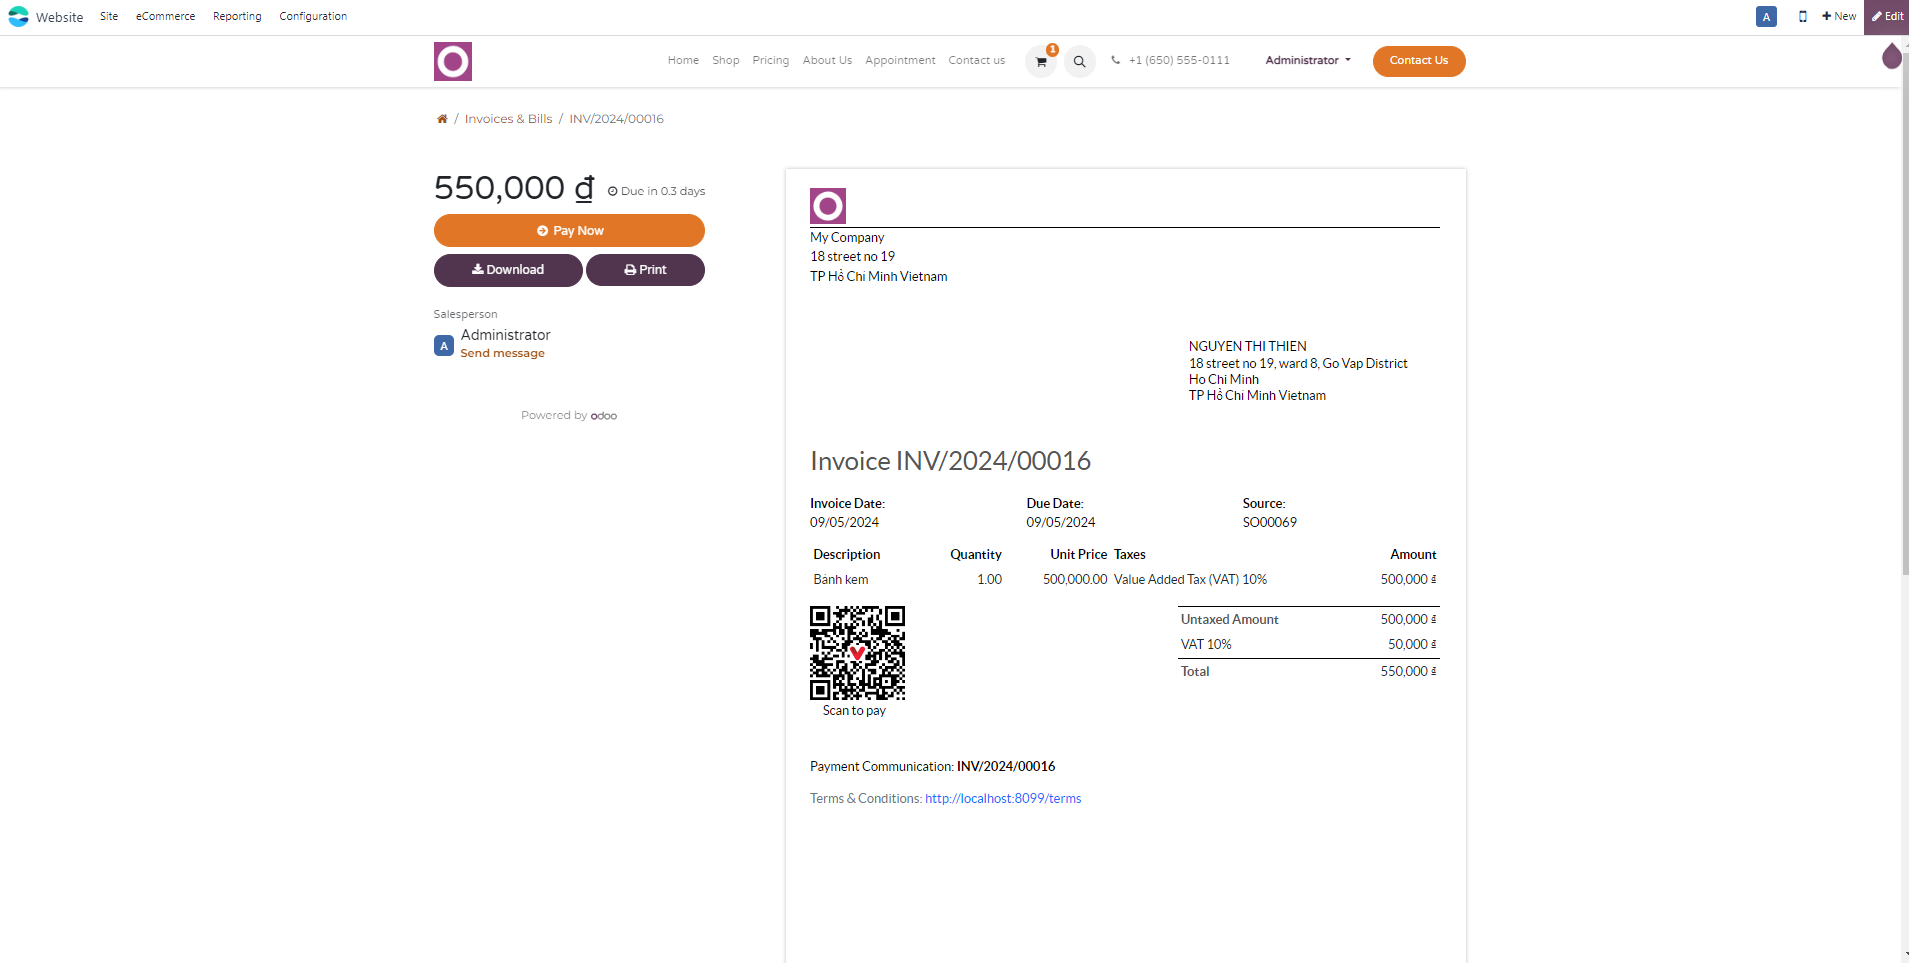
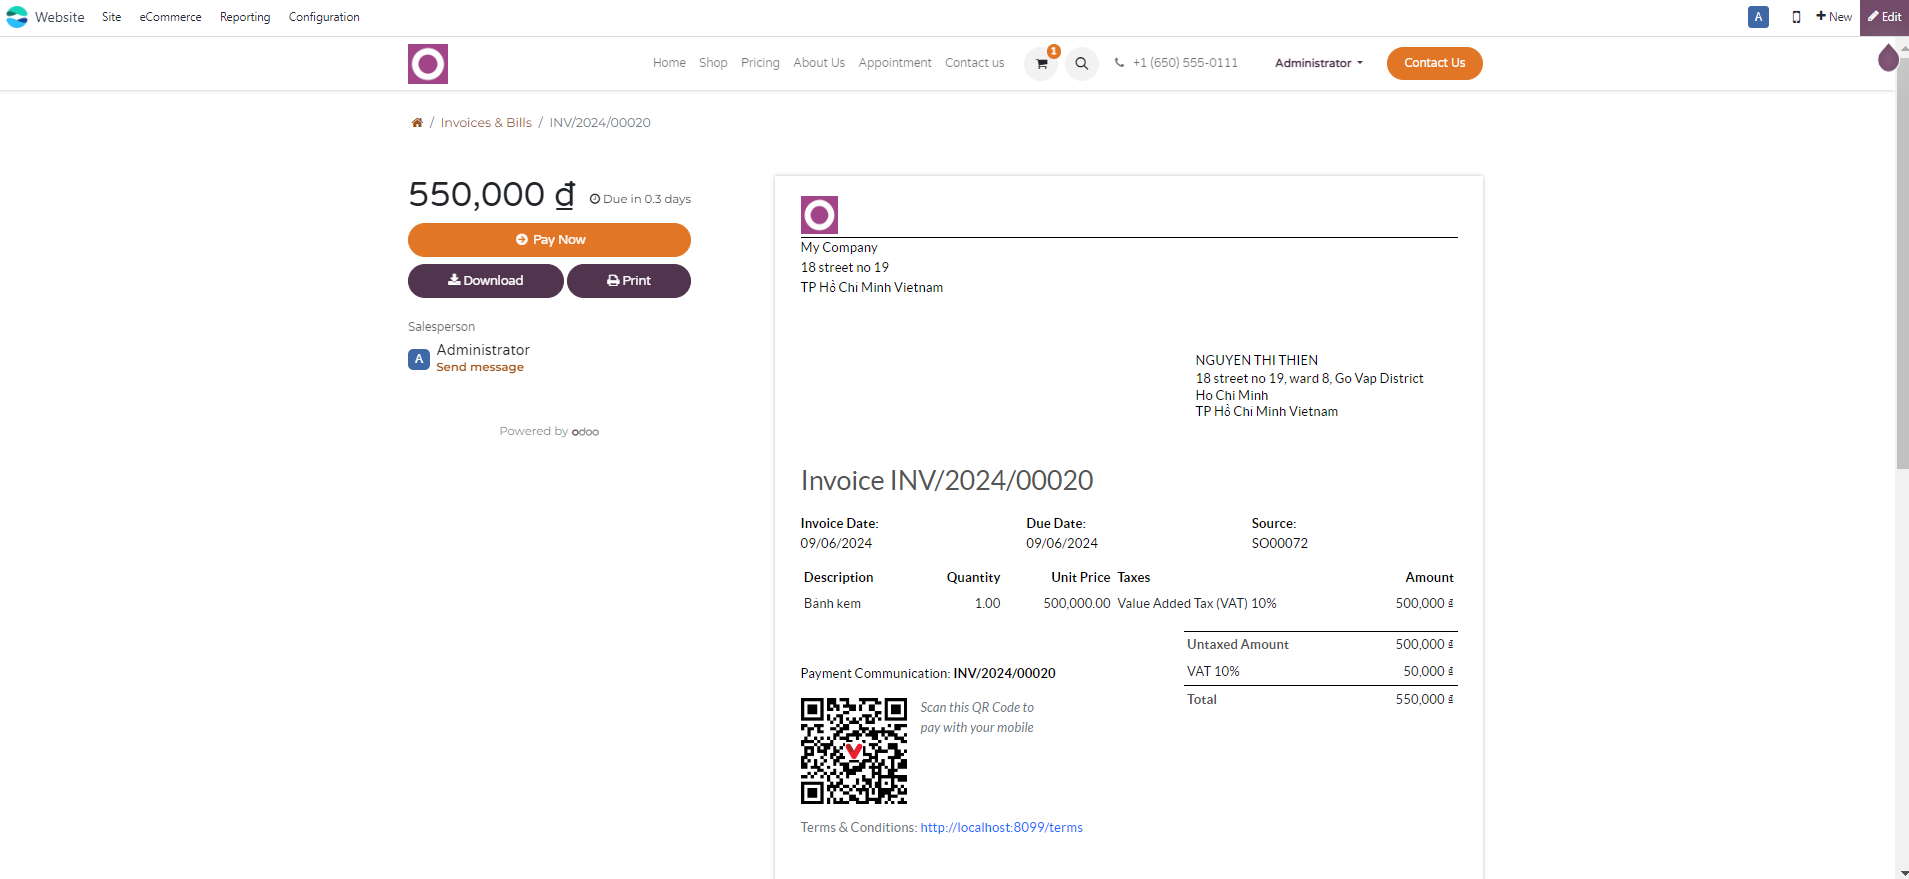
Commit

diff --git a/tangerine_sepay_integration/static/description/index.html b/tangerine_sepay_integration/static/description/index.html
@@ -90,7 +90,7 @@
                 </section>
                 <!-- feature -->
             </div>
-            <div id="guidelines" class="tab-pane fade show active" role="tabpanel" tabindex="0" aria-labelledby="guidelines-tab">
+            <div id="guidelines" class="tab-pane fade show" role="tabpanel" tabindex="0" aria-labelledby="guidelines-tab">
                 <section class="mb-5">
                     <div class="container">
                         <div class="alert alert-success" role="alert">
@@ -108,15 +108,28 @@
                     <div class="container">
                         <div class="mb-4">
                             <h4>I. Getting started</h4>
-                            <div class="px-3">
-                                <p>- Register for a SePay account <a href="https://my.sepay.vn/register?gcid=cxyuoflu" target="_blank">here</a></p>
+                                <div class="px-3">
+                                    <div class="alert alert-success" role="alert">
+                                        <h4 class="alert-heading">
+                                            <i class="fa fa-lightbulb-o"></i>
+                                            <span style="font-weight: 700;">Discount Code</span>
+                                        </h4>
+                                        <p>
+                                            Use discount code <span style="font-weight: 700;">EYVR1SYP</span> to get 10% off the service package value for the first registration.
+                                        </p>
+                                    </div>
+                                <p><span style="font-weight: 700;">Step 1: Register for a SePay account</span> <a href="https://my.sepay.vn/register?gcid=cxyuoflu" target="_blank">here</a></p>
                                 <img alt="Register Account" class="rounded shadow-lg bg-body mb-3" src="./images/register_account.png" style="height: auto; width: 100%" />
-                                <p>- Choose a package service</p>
+                                <p><span style="font-weight: 700;">Step 2: Choose a package service</span></p>
                                 <img alt="Choose Package" class="rounded shadow-lg bg-body mb-3" src="./images/choose_package_service.png" style="height: auto; width: 100%" />
-                                <p>- Setup webhook</p>
+                                <p><span style="font-weight: 700;">Apply discount code EYVR1SYP to get 10%</span></p>
+                                <img alt="Apply Discount code" class="rounded shadow-lg bg-body mb-3" src="./images/package_discount.png" style="height: auto; width: 100%" />
+                                <p><span style="font-weight: 700;">Step 3: Bank connection</span></p>
+                                <img alt="Bank connection" class="rounded shadow-lg bg-body mb-3" src="./images/bank_connect.png" style="height: auto; width: 100%" />
+                                <p><span style="font-weight: 700;">Step 4: Setup webhook</span></p>
                                 <p>URL: https://{Your Odoo domain}/webhook/v1/payment/sepay</p>
                                 <img alt="Config Webhook" class="rounded shadow-lg bg-body mb-3" src="./images/config_webhook.png" style="height: auto; width: 100%" />
-                                <p>- Payment Code Structure Configuration</p>
+                                <p><span style="font-weight: 700;">Step 5: Payment Code Structure Configuration</span></p>
                                 <p>Navigate: Company Configuration/General configuration</p>
                                 <img alt="Payment Structure" class="rounded shadow-lg bg-body mb-3" src="./images/payment_structure.png" style="height: auto; width: 100%" />
                             </div>
@@ -128,19 +141,21 @@
                             </div>
                         </div>
                         <div class="mb-4">
-                            <h4>III. Configure default receiving bank account</h4>
+                            <h4>III. QR code configuration</h4>
                             <div class="px-3">
-                                <p>Navigate: Settings/Users & Companies/Companies</p>
-                                <img alt="Settings bank account" class="rounded shadow-lg bg-body mb-3" src="./images/setting_bank_account.png" style="height: auto; width: 100%" />
-                            </div>
-                        </div>
-                        <div class="mb-4">
-                            <h4>IV. Automatic generate QR payment for invoices</h4>
-                            <div class="px-3">
-                                <p>- QR on customer payment portal</p>
-                                <img alt="QR Portal" class="rounded shadow-lg bg-body mb-3" src="./images/qr_customer_portal.png" style="height: auto; width: 100%" />
-                                <p>- QR on invoice report</p>
-                                <img alt="QR Report" class="rounded shadow-lg bg-body mb-3" src="./images/qr_invoice_report.png" style="height: auto; width: 100%" />
+                                <p><span style="font-weight: 700;">Step 1: Add a payment QR-code to your invoices</span></p>
+                                <p>Navigate: Settings/Accounting/Customer Payments/Active QR Code checkbox</p>
+                                <img alt="Active QR code" class="rounded shadow-lg bg-body mb-3" src="./images/active_qr_code.png" style="height: auto; width: 100%" />
+                                <p><span style="font-weight: 700;">Step 2: Choose Recipient Bank & Payment QR-code</span></p>
+                                <p>Navigate to your invoice</p>
+                                <ul>
+                                    <li><span style="font-weight: 700;">Recipient Bank</span>: The bank account receiving money</li>
+                                    <li><span style="font-weight: 700;">Payment QR-code</span>: The QR code type used for invoices</li>
+                                </ul>
+                                <img alt="Invoice" class="rounded shadow-lg bg-body mb-3" src="./images/invoice.png" style="height: auto; width: 100%" />
+                                <p>QR code will appear on customer portal and invoice report</p>
+                                <img alt="customer portal" class="rounded shadow-lg bg-body mb-3" src="./images/qr_customer_portal.png" style="height: auto; width: 100%" />
+                                <img alt="invoice report" class="rounded shadow-lg bg-body mb-3" src="./images/qr_invoice_report.png" style="height: auto; width: 100%" />
                             </div>
                         </div>
                         <div class="mb-4">

diff --git a/tangerine_sepay_integration/models/account_move.py b/tangerine_sepay_integration/models/account_move.py
@@ -1,0 +1,13 @@
+import base64
+from odoo import fields, models
+from odoo.tools.image import image_data_uri
+
+
+class AccountMove(models.Model):
+    _inherit = 'account.move'
+
+    def _generate_qr_code(self, silent_errors=False):
+        self.ensure_one()
+        if self.company_id.country_code == 'VN' and self.qr_code_method == 'sepay_qr':
+            return f'https://qr.sepay.vn/img?acc={self.partner_bank_id.acc_number}&bank={self.partner_bank_id.bank_id.code}&amount={self.amount_residual}&des={self.invoice_origin}'
+        return super()._generate_qr_code(silent_errors)

diff --git a/tangerine_sepay_integration/models/res_bank.py b/tangerine_sepay_integration/models/res_bank.py
@@ -1,0 +1,11 @@
+from odoo import models, api, _
+
+
+class ResPartnerBank(models.Model):
+    _inherit = 'res.partner.bank'
+
+    @api.model
+    def _get_available_qr_methods(self):
+        result = super()._get_available_qr_methods()
+        result.append(('sepay_qr', _('QR Code VietQR - SePay'), 50))
+        return result

diff --git a/tangerine_sepay_integration/__manifest__.py b/tangerine_sepay_integration/__manifest__.py
@@ -8,8 +8,6 @@
     'support': 'odoo.tangerine@gmail.com',
     'data': [
         'data/payment_method_data.xml',
-        # 'report/ir_actions_report_templates.xml',
-        'views/res_company_views.xml',
         'views/report_invoice_document.xml',
     ],
     'license': 'LGPL-3',

diff --git a/tangerine_sepay_integration/models/__init__.py b/tangerine_sepay_integration/models/__init__.py
@@ -1,1 +1,2 @@
-from . import res_company
+from . import res_bank
+from . import account_move
